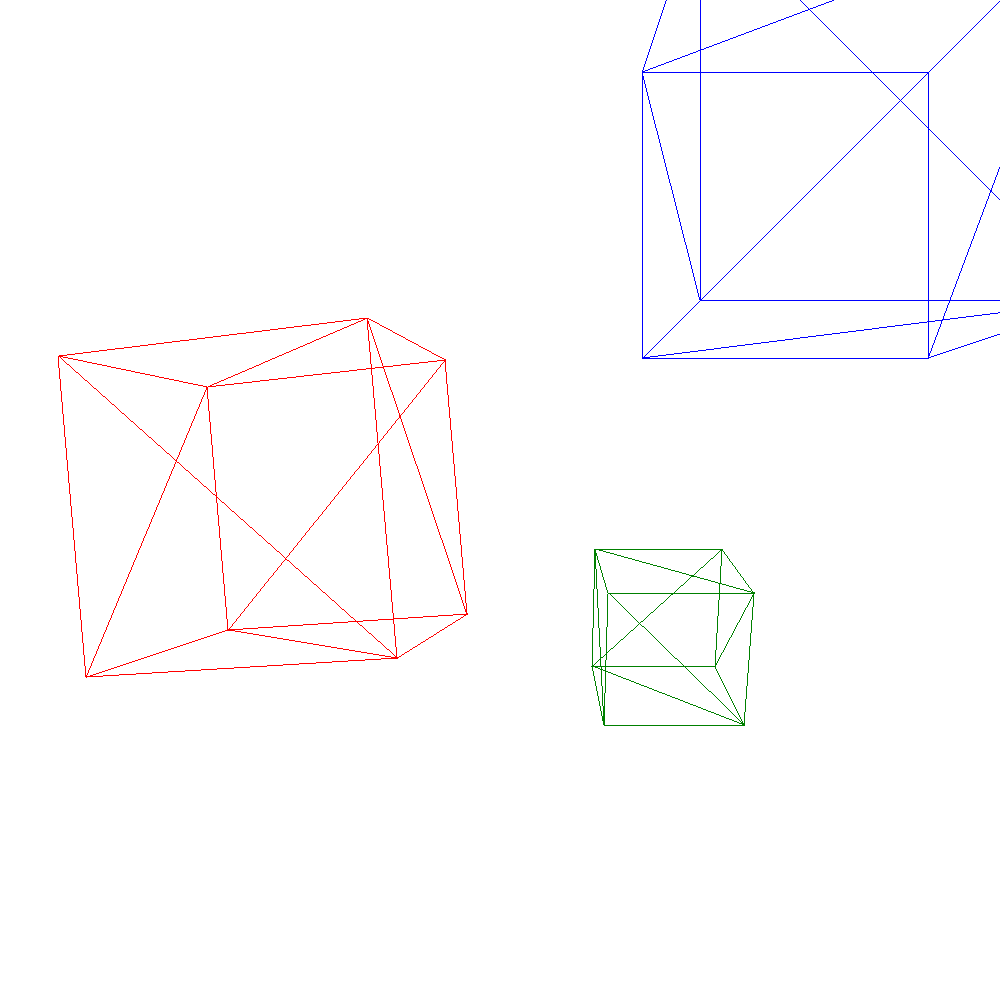
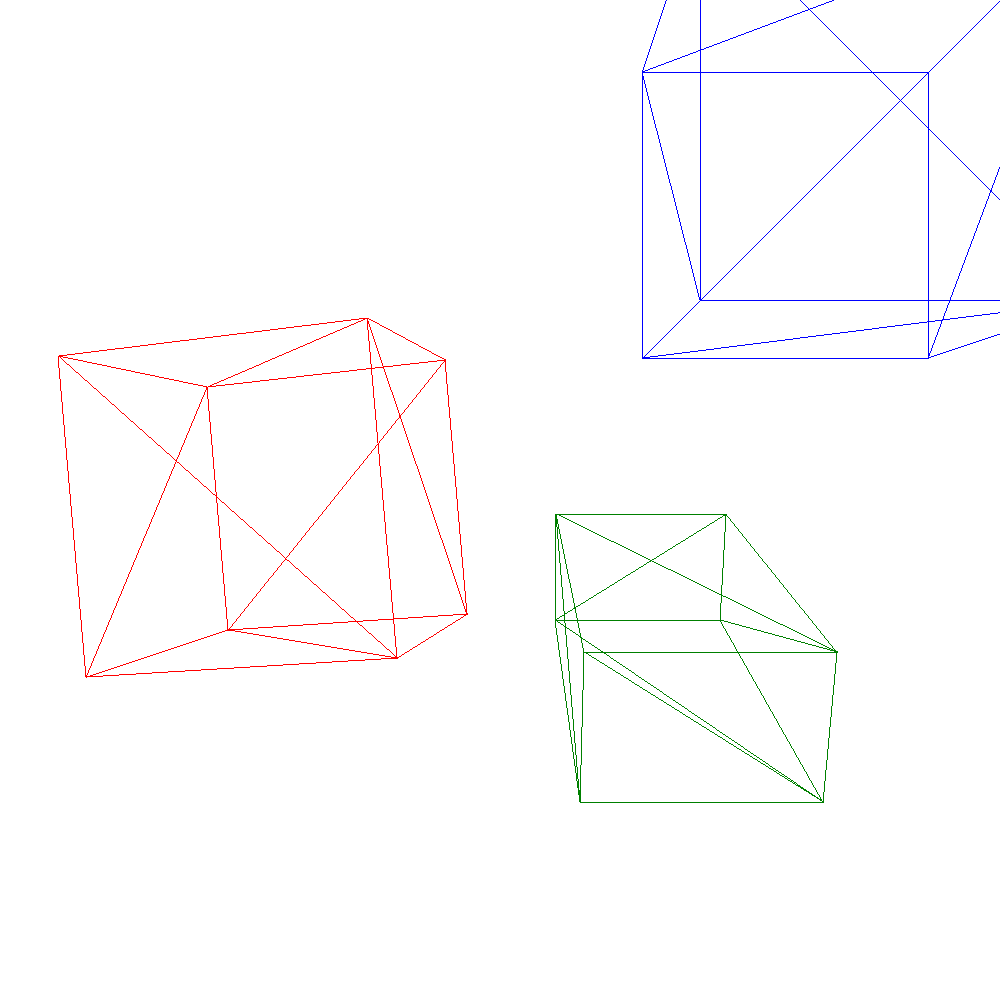
Implement independent scaling in any direction.

Changed region(s): [[0.558, 0.527, 0.651, 0.682], [0.713, 0.558, 0.744, 0.651], [0.713, 0.713, 0.744, 0.744]]

diff --git a/Utils/Transform.cs b/Utils/Transform.cs
@@ -7,12 +7,12 @@ namespace RasterizationRenderer.Utils
     /// </summary>
     public class Transform
     {
-        public float Scale { get; private set; }
+        public Vector3 Scale { get; private set; }
         public List<Vector3> RotationAngles { get; private set; }
         public Vector3 Translation { get; private set; }
         public List<Quaternion> Rotations { get; set; }
 
-        public Transform(float scale, List<Vector3> rotations, Vector3 translation)
+        public Transform(Vector3 scale, List<Vector3> rotations, Vector3 translation)
         {
             Scale = scale;
             RotationAngles = rotations;

diff --git a/Utils/Triangle.cs b/Utils/Triangle.cs
@@ -34,11 +34,11 @@ namespace RasterizationRenderer.Utils
         /// Scale the position of the vertices of this triangle by a given factor.
         /// </summary>
         /// <param name="scale">The scale factor.</param>
-        public void Scale(float scale)
+        public void Scale(Vector3 scale)
         {
             for (int i = 0; i < Vertices.Length; i++)
             {
-                Vertices[i] *= scale;
+                Vertices[i] = Vector3.Multiply(Vertices[i], scale);
             }
         }
 

diff --git a/Models/Model.cs b/Models/Model.cs
@@ -36,7 +36,7 @@ namespace RasterizationRenderer.Models
         /// Scale the position of the vertices of this model by a given factor.
         /// </summary>
         /// <param name="scale">The scale factor.</param>
-        private void Scale(float scale)
+        private void Scale(Vector3 scale)
         {
             foreach (Triangle t in Triangles)
             {
